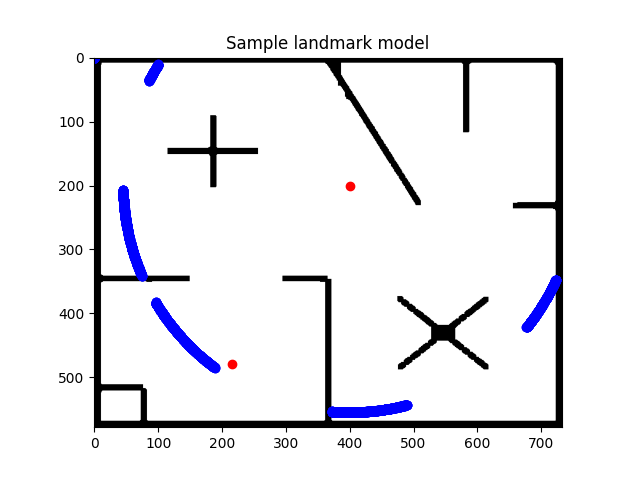
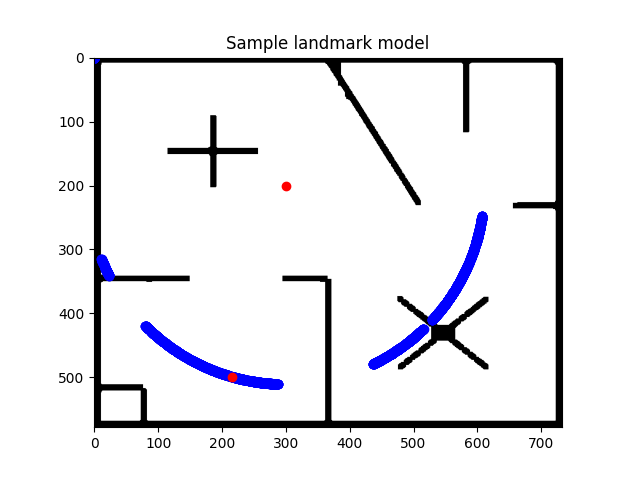
finished task 2

diff --git a/Assignment_2/sensor_model_test.py b/Assignment_2/sensor_model_test.py
@@ -80,7 +80,7 @@ def test_all_p():
 
 
 def test_ray_casting():
-    xt = np.array([30 * 7.2, 80 * 6, np.pi/2])
+    xt = np.array([30 * 7.2, 84 * 6, np.pi/2])
     loaded_map = np.load('map/binary_image.npy')
     z_maxlen = 500
     zt_start = np.pi/4
@@ -108,7 +108,11 @@ def test_ray_casting_plot(xt=np.array([200, 480, np.pi/2]), m=np.load('map/binar
         for i in range(int(z_maxlen)): # For every block in the map up to the max range
             m_x = x + i * np.cos(angle + theta) 
             m_y = y + i * -np.sin(angle + theta) # -sin is only nessasary when the map is wrong // else sin
-            if tolerance < angle < tolerance:
+
+            if np.sqrt((m_x - x)**2 + (m_y - y)**2) > z_maxlen: # If the distance to the block is larger than the max range
+                break
+
+            if -tolerance < angle < tolerance:
                 x_list_st.append(m_x)
                 y_list_st.append(m_y)
             else:
@@ -125,14 +129,14 @@ def test_ray_casting_plot(xt=np.array([200, 480, np.pi/2]), m=np.load('map/binar
 
 
 def test_ray_casting_gif():
-    number_of_readings = 10
+    number_of_readings = 8
     zt_start = np.pi/4
     zt_end = -np.pi/4
     z_maxlen = 500
     loaded_map = np.load('map/binary_image.npy')
     filenames = []
 
-    xt = np.array([30 * 7.2, 80 * 6, np.pi/2])
+    xt = np.array([30 * 7.2, 84 * 6, np.pi/2])
     filenames.append(test_ray_casting_plot(xt, loaded_map, number_of_readings, z_maxlen, zt_start, zt_end, filename="plot_1"))
     xt = np.array([30 * 7.2, 75 * 6, np.pi/2])
     filenames.append(test_ray_casting_plot(xt, loaded_map, number_of_readings, z_maxlen, zt_start, zt_end, filename="plot_2"))
@@ -185,13 +189,13 @@ def test_ray_casting_gif():
 
 
 def test_beam_range_finder_model():
-    m = np.load('map/binary_image.npy')
-    m = np.transpose(m) 
-    zt = np.array([182.0, 153.0, 500, 279.0, 331.0, 480.0, 153, 184]) # exact values 
+    m = np.transpose(np.load('map/binary_image.npy'))
+    zt = np.array([218.0, 182, 500, 303.0, 355.0, 496.0, 182, 206]) # exact values 
     noise = np.random.normal(0, 2, size=len(zt)) 
     zt += noise # add noise to the values
     zt[2] = 500 # to not get larger than 500
 
+    # These values are from the learn_intrinsic_parameters() function
     z_hit = 0.8157123986145881
     z_short = 0.00235666025958796
     z_max = 0.16552184295092348
@@ -203,14 +207,14 @@ def test_beam_range_finder_model():
     z_maxlen = 500
     zt_start = np.pi/4
     zt_end = -np.pi/4
-    xt=np.array([30 * 7.2, 80 * 6, np.pi/2])
-    print(f"Beam range finder model :{sensor_model.beam_range_finder_model(zt, xt, m, theta, z_maxlen, zt_start, zt_end)}")
+    xt=np.array([30 * 7.2, 84 * 6, np.pi/2])
+    print(f"Beam range finder model :{sensor_model.beam_range_finder_model(zt, xt, m, theta, z_maxlen, zt_start, zt_end, transpose=False)}")
 
 def test_learn_intrinsic_parameters():
     Z = np.array([329, 85.0, 500, 182.0])
     noise = np.random.normal(0, 2, size=len(Z))
     Z += noise
-    Z[2] += 500 # to not get larger than 500 
+    Z[2] = 500 # to not get larger than 500 
 
     X=np.array([[30 * 7.2, 80 * 6, np.pi/2],[400, 200, 0],
                 [600, 300, np.pi],[30 * 7.2, 80 * 6, 3*np.pi/4]])
@@ -223,56 +227,102 @@ def test_learn_intrinsic_parameters():
 
 
 def test_likelihood_field_range_finder_model():
-    zt = np.array([182.0, 153.0, 500, 279.0, 331.0, 480.0, 153, 184])
+    zt = np.array([218.0, 182, 500, 303.0, 355.0, 496.0, 182, 206])
+    zt_start = np.pi/4
+    zt_end = -np.pi/4
     noise = np.random.normal(0, 2, size=len(zt))
     zt += noise
     zt[2] = 500 # to not get larger than 500
 
-    xt=np.array([30 * 7.2, 80 * 6, np.pi/2])
+    xt=np.array([30 * 7.2, 84 * 6, np.pi/2])
     m = np.load('map/binary_image_cats.npy')
-    theta = np.array([0.9656165275012334, 0.013197869913444309, 0, 0.021185602585322268, 2.277803215809316, 0.003070493203341887])
+    theta = np.array([0.8157123986145881, 0.00235666025958796, 0.16552184295092348, 0.01640909817490046, 1.9665518618953464, 0.0029480342354130016])
     z_maxlen = 500
     sense_coord = np.array([0, 0, 0])
-    print(f"Likelihood field :{100 * sensor_model.likelihood_field_range_finder_model(zt, xt, m, theta, z_maxlen, sense_coord, transpose=True)} %")
+    print(f"Likelihood field :{100 * sensor_model.likelihood_field_range_finder_model(zt, xt, m, theta, z_maxlen, sense_coord, zt_start, zt_end, transpose=True)} %")
 
 def test_landmark_model_known_correspondence():
-    fit = [350, -2.5, 1] #[rit, thetait, sit]
-    cit = [400, 200, 1] #[jx, jy, ji] 
-    xt=np.array([30 * 7.2, 80 * 6, np.pi/2])
+    fit = [311, -2.9, 1] #[rit, thetait, sit]
+    cit = [300, 200, 1] #[jx, jy, ji] 
+    xt=np.array([216, 500, np.pi/2])
     sigma = [0.1, 0.05, 0.1] # sigma_r = 0.1, sigma_theta = 0.05, sigma_s = 0.1
     print(f'Land mark model :{100 * sensor_model.landmark_model_known_correspondence(fit, cit, xt, sigma)} %')
 
 
 def test_sample_landmark_model_known_correspondence():
-    fit = [355, -2.5, 1] #[rit, thetait, sit]
-    cit = [400, 200, 1] #[jx, jy, ji]
+    fit = [311, -2.9, 1] #[rit, thetait, sit]
+    cit = [300, 200, 1] #[jx, jy, ji]
     m = np.load('map/binary_image.npy')
-    sigma = [0.1, 0.05] # sigma_r = 0.1, sigma_theta = 0.05, sigma_s = 0.1
+    sigma = [0.1, 0.05] # sigma_r = 0.1, sigma_theta = 0.05
 
     x_positions, y_positions, z_positions = zip(*(sensor_model.sample_landmark_model_known_correspondence(fit, cit, m, sigma) for _ in range(10000)))
 
     plt.title("Sample landmark model")
     plt.imshow(np.load('map/binary_image.npy'), cmap='Greys')
-    plt.scatter(x_positions, y_positions, c='b', marker='o')
-    plt.scatter(400,200, c='r', marker='o')
-    plt.scatter(216,480, c='r', marker='o')
+    plt.scatter(x_positions, y_positions, c='b', marker='.')
+    plt.scatter(300,200, c='r', marker='o')
+    plt.scatter(216,500, c='r', marker='o')
     plt.show()
-    # Should be [216.0, 480, 1.57]
 
 
 if __name__ == "__main__":
 
-    #test_p_hit()
-    #test_p_short()
-    #test_p_max()
-    #test_p_rand()
-    #test_all_p()
-    #test_ray_casting()
-    #test_ray_casting_plot()
-    #test_ray_casting_gif()
-    #test_beam_range_finder_model()
-    #test_learn_intrinsic_parameters()
-    #test_likelihood_field_range_finder_model()
-    #test_landmark_model_known_correspondence()
-    ##test_sample_landmark_model_known_correspondence()
-    pass
+    """
+    See images:
+    p_hit.png
+    p_short.png
+    p_max.png
+    p_rand.png
+    p_all.png
+    
+    For the plots.
+    """
+    test_p_hit()
+    test_p_short()
+    test_p_max()
+    test_p_rand()
+    test_all_p()
+
+    """
+    See image animation_front_laser.gif for the robot's trajectory in the map.
+    See the first image in animation_front_laser.gif for the laser beams and compare
+    with the values from test_ray_casting() to see that the values are correct.
+    """
+    test_ray_casting()
+    test_ray_casting_plot()
+    test_ray_casting_gif()
+
+    """
+    Gives a very small value, but it makes sense given there are 700*500 pixels 
+    or places it can be in the map.
+    """
+    test_beam_range_finder_model()
+
+    """
+    Gives start values for the parameters, 
+    and then return the sum when the values converge.
+
+    Also prints the sum for the z_ parameters.
+    """
+    test_learn_intrinsic_parameters()
+
+    """
+    Gives a very small value, but it makes sense given there are 700*500 pixels 
+    or places it can be in the map.
+    """
+    test_likelihood_field_range_finder_model()
+
+
+    """
+    See image sample_landmark_model.png for the robot and the landmark
+    with all other possible positions for the landmark.
+    """
+    test_landmark_model_known_correspondence()
+
+    """
+    See image sample_landmark_model.png for the alle the samples.
+    The robot cannot be in the walls out of the map or
+    see through the walls in the map.
+    """
+    test_sample_landmark_model_known_correspondence()
+

diff --git a/Assignment_2/sensor_model.py b/Assignment_2/sensor_model.py
@@ -109,6 +109,7 @@ def ray_casting(xt, m, theta_z, z_maxlen, transpose=False):
     for i in range(int(z_maxlen)): # For every block in the map up to the max range
         m_x = x + i * np.cos(theta + theta_z) 
         m_y = y + i * -np.sin(theta + theta_z) # -sin is only nessasary when the map is wrong // else sin
+        
         if m[round(m_x)][round(m_y)] == 1: # If the block is occupied
             return np.sqrt((m_x - x)**2 + (m_y - y)**2) # Return the distance to the block
         
@@ -183,7 +184,7 @@ Returns the learned intrinsic parameters
 Todo add so Z contains multple readings
 zt_start=0, zt_end=2*np.pi
 """
-def learn_intrinsic_parameters(Z, X, m, Theta, z_maxlen=300, angle=0):
+def learn_intrinsic_parameters(Z, X, m, Theta, z_maxlen=500, angle=0):
     cur = Theta 
     z_hit, z_short, z_max, z_rand, sigma_hit, lambda_short = cur
     convergence = False
@@ -200,7 +201,6 @@ def learn_intrinsic_parameters(Z, X, m, Theta, z_maxlen=300, angle=0):
             zi_star = ray_casting(X[i], m, angle, z_maxlen, transpose=True)
             zi_star_list.append(zi_star)
             n = 1/(p_hit(zi, zi_star, z_maxlen, sigma_hit) + p_short(zi, zi_star, lambda_short) + p_max(zi, z_maxlen) + p_rand(zi, z_maxlen))
-                
             ei_hit.append(n * p_hit(zi, zi_star, z_maxlen, sigma_hit))
             ei_short.append(n * p_short(zi, zi_star, lambda_short))
             ei_max.append(n * p_max(zi, z_maxlen))
@@ -242,30 +242,30 @@ The sum of the weights (z_..) should be 1
 
 z_maxlen = max range of the lidar
 
-sense_coord = sensor location in the robot coordinate system
+sense_coord = [Xk_sense, Yk_sense, Thetak_sense] sensor location in the robot coordinate system
 
 Returns the probability of the reading distance given the robot pose and the map
 """
-def likelihood_field_range_finder_model(zt, xt, m, Theta, z_maxlen, sense_coord, transpose=False):
+def likelihood_field_range_finder_model(zt, xt, m, Theta, z_maxlen, sense_coord, zt_start, zt_end, transpose=False):
     x, y, theta = xt # x, y, θ (robot pose)
     z_hit, z_short, z_max, z_rand, sigma_hit, lambda_short = Theta
     xk_sens, yk_sens, theta_k_sens = sense_coord  # Sensor location in the robot coordinate system    
+    angle = np.linspace(zt_start, zt_end, len(zt))
     q = 1
 
     if transpose:
         m = np.transpose(m)
 
     blocked_list = [] # List of all blocked cells in the map
-    for x in range(m.shape[0]):
-        for y in range(m.shape[1]):
-            if m[x][y] == 1:
-                blocked_list.append([x, y])
+    for x_i in range(m.shape[0]):
+        for y_i in range(m.shape[1]):
+            if m[x_i][y_i] == 1:
+                blocked_list.append([x_i, y_i])
 
-    for ztk in zt:
+    for i, ztk in enumerate(zt):
         if ztk != z_maxlen:
-            xztk = x + xk_sens * np.cos(theta) - yk_sens * np.sin(theta) + ztk*np.cos(theta + theta_k_sens)
-            yztk = y + yk_sens * np.cos(theta) + xk_sens * np.sin(theta) + ztk*np.sin(theta + theta_k_sens)
-
+            xztk = x + xk_sens * np.cos(theta) - yk_sens * np.sin(theta) + ztk*np.cos(theta + theta_k_sens + angle[i])
+            yztk = y + yk_sens * np.cos(theta) + xk_sens * np.sin(theta) - ztk*np.sin(theta + theta_k_sens + angle[i]) # -sin is only nessasary when the map is wrong // else sin
             list_dist = []
             for x_, y_ in blocked_list:
                 list_dist.append(np.sqrt((xztk - x_)**2 + (yztk - y_)**2)) # Distance to all blocked cells in the map

diff --git a/Assignment_2/task2.py b/Assignment_2/task2.py
@@ -3,19 +3,23 @@
 import sensor_model
 import numpy as np
 
-
+"""
+Function for calculating p(zt|xt, m) at 21 different poses i the map, representing the robot's trajectory.
+See images/task2.gif for the robot's trajectory in the map.
+Her the green beam represents the robots front, theta from xt.
+"""
 def task2_likelihood():
     likelihood = []
     zt_start = 0
     zt_end = 2*np.pi
     z_maxlen = 500
     m = np.load('map/binary_image_cats.npy')
-    z_hit = 0.40
-    z_short = 0.20
-    z_max = 0.25
-    z_rand =  0.15
-    sigma_hit = 0.1
-    lambda_short = 0.5
+    z_hit = 0.8157123986145881
+    z_short = 0.00235666025958796
+    z_max = 0.16552184295092348
+    z_rand =  0.01640909817490046
+    sigma_hit = 1.9665518618953464
+    lambda_short = 0.0029480342354130016
     theta = np.array([z_hit, z_short, z_max, z_rand, sigma_hit, lambda_short])
 
     noise = np.random.normal(0, 2, size=8) 
@@ -147,7 +151,8 @@ def task2_likelihood():
     zt += noise
     likelihood.append(sensor_model.beam_range_finder_model(zt, xt, m, theta, z_maxlen, zt_start, zt_end))
 
-    print(likelihood)
+    for i in likelihood:
+        print(i)
 
 if __name__ == "__main__":
     task2_likelihood()

diff --git a/Assignment_2/map/create_npy_map.py b/Assignment_2/map/create_npy_map.py
@@ -5,6 +5,10 @@ import numpy as np
 import matplotlib.pyplot as plt
 import skimage.morphology as mp
 
+"""
+File for create a binary np array map from a image
+"""
+
 # Load the image
 image = Image.open('map_cats.jpg')  
 
@@ -16,7 +20,6 @@ image_array = np.array(gray_image)
 
 # Threshold the array to set black pixels to 1 and white pixels to 0
 binary_array = (image_array < 200).astype(np.uint8)
-
 
 # Save the binary array as an NPY file
 np.save('binary_image_cats.npy', binary_array)
